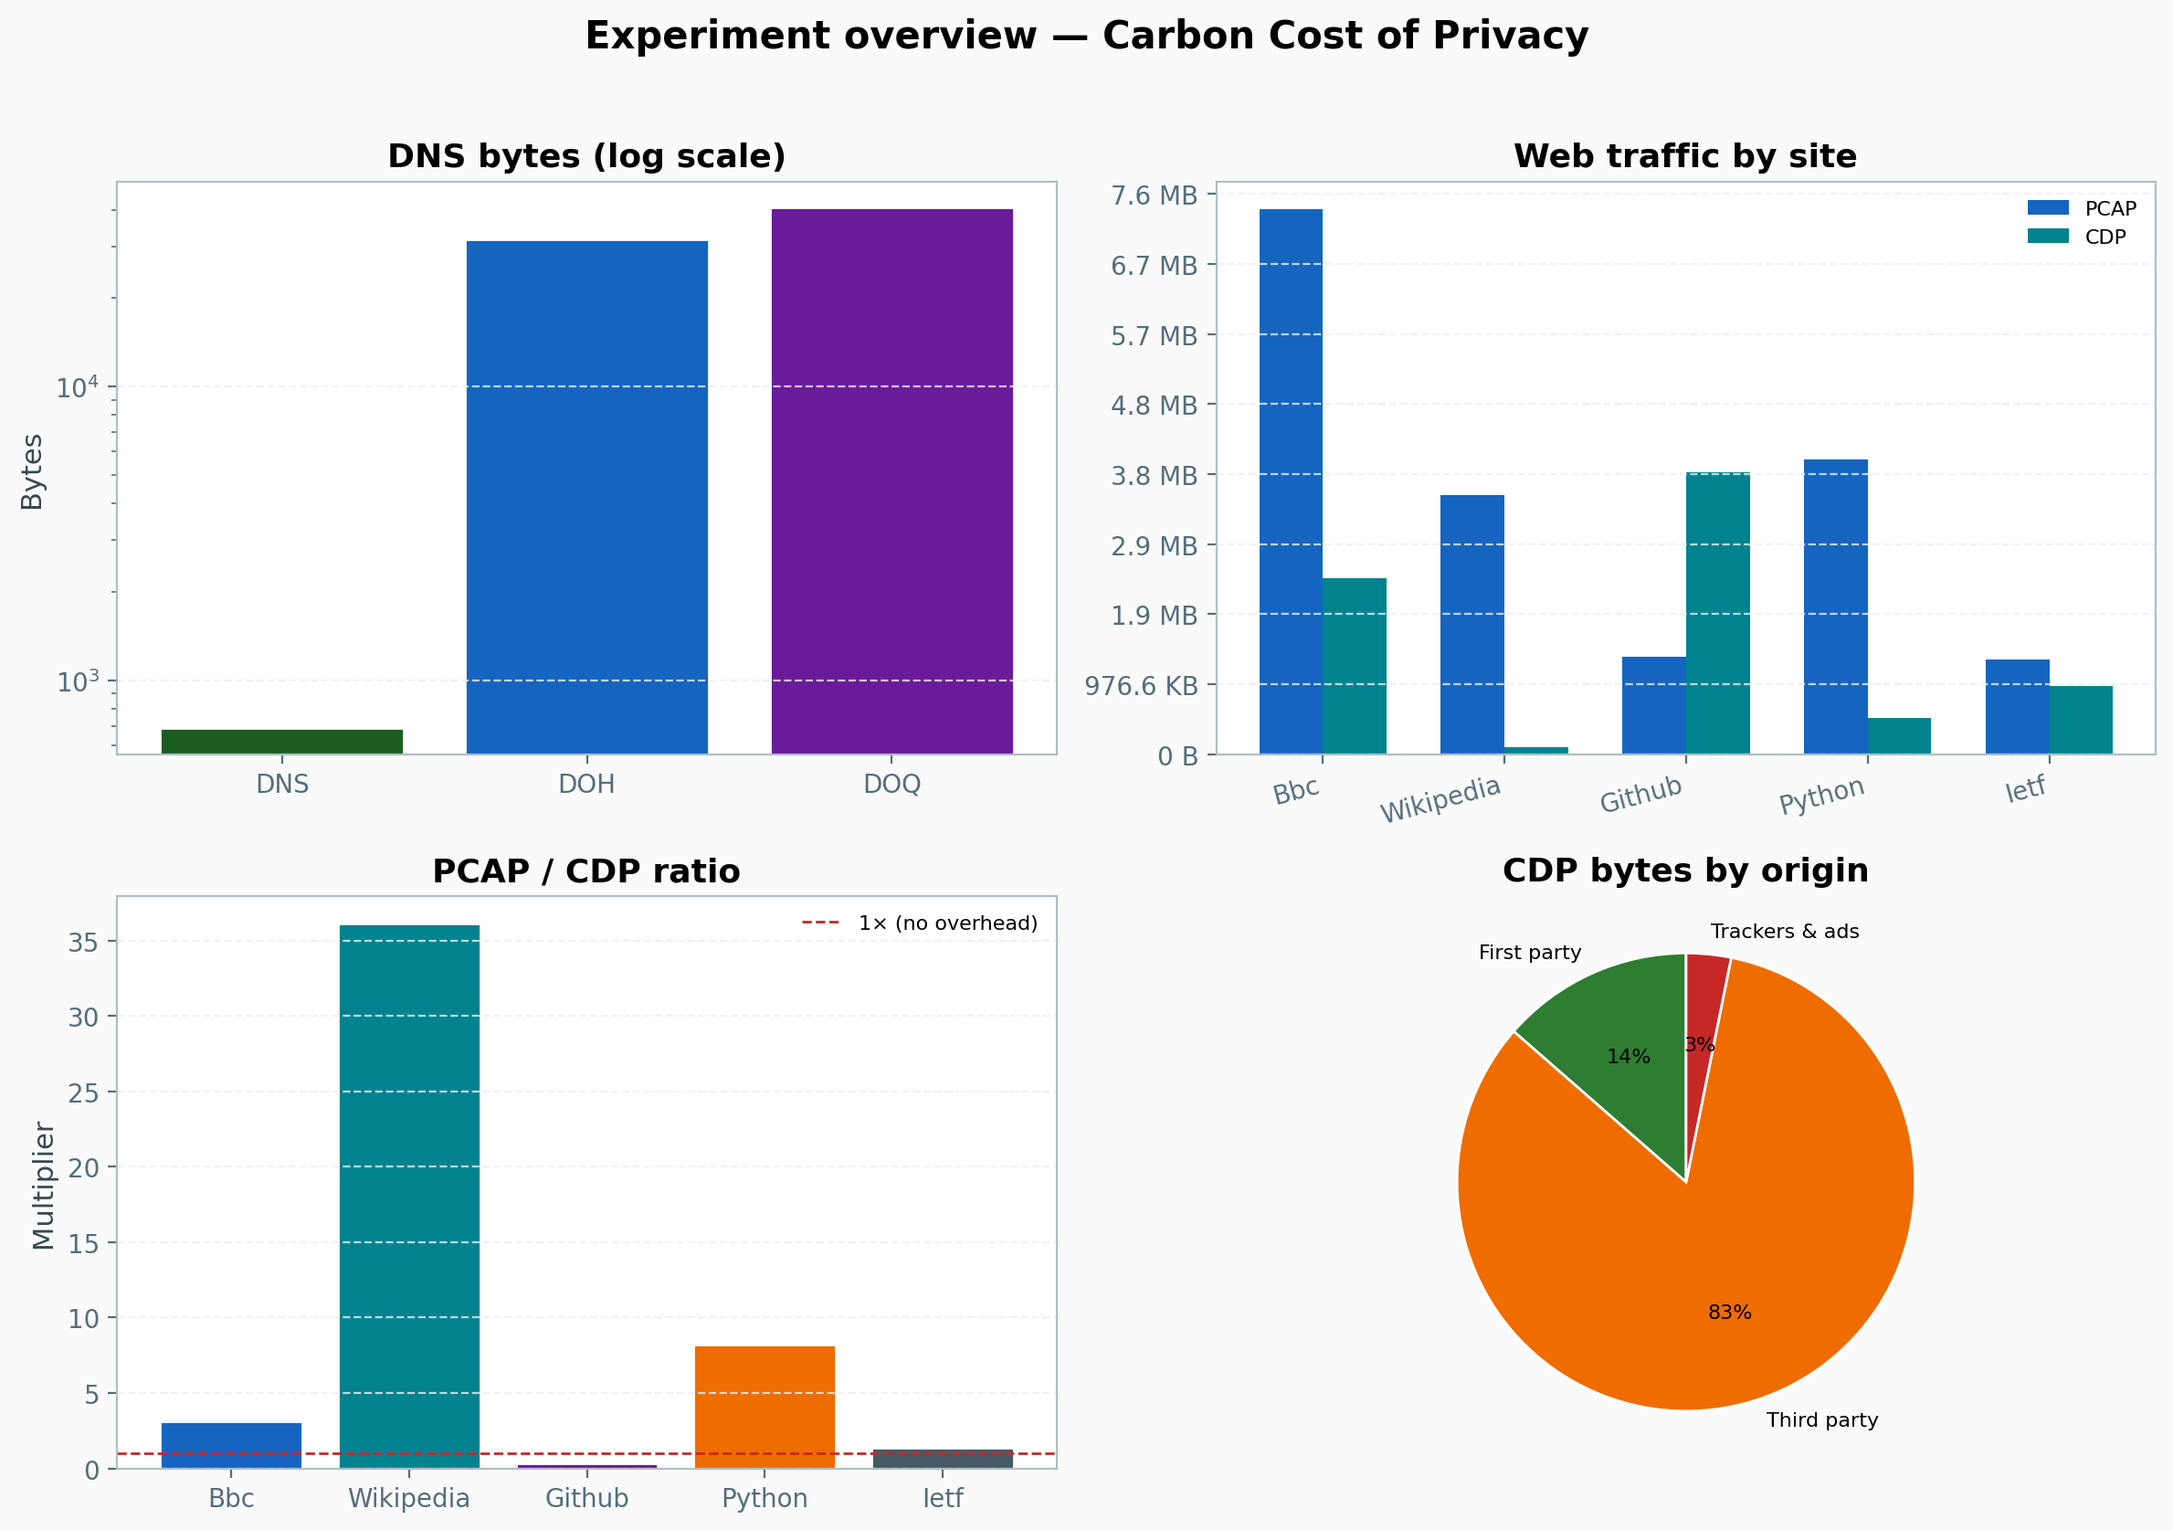
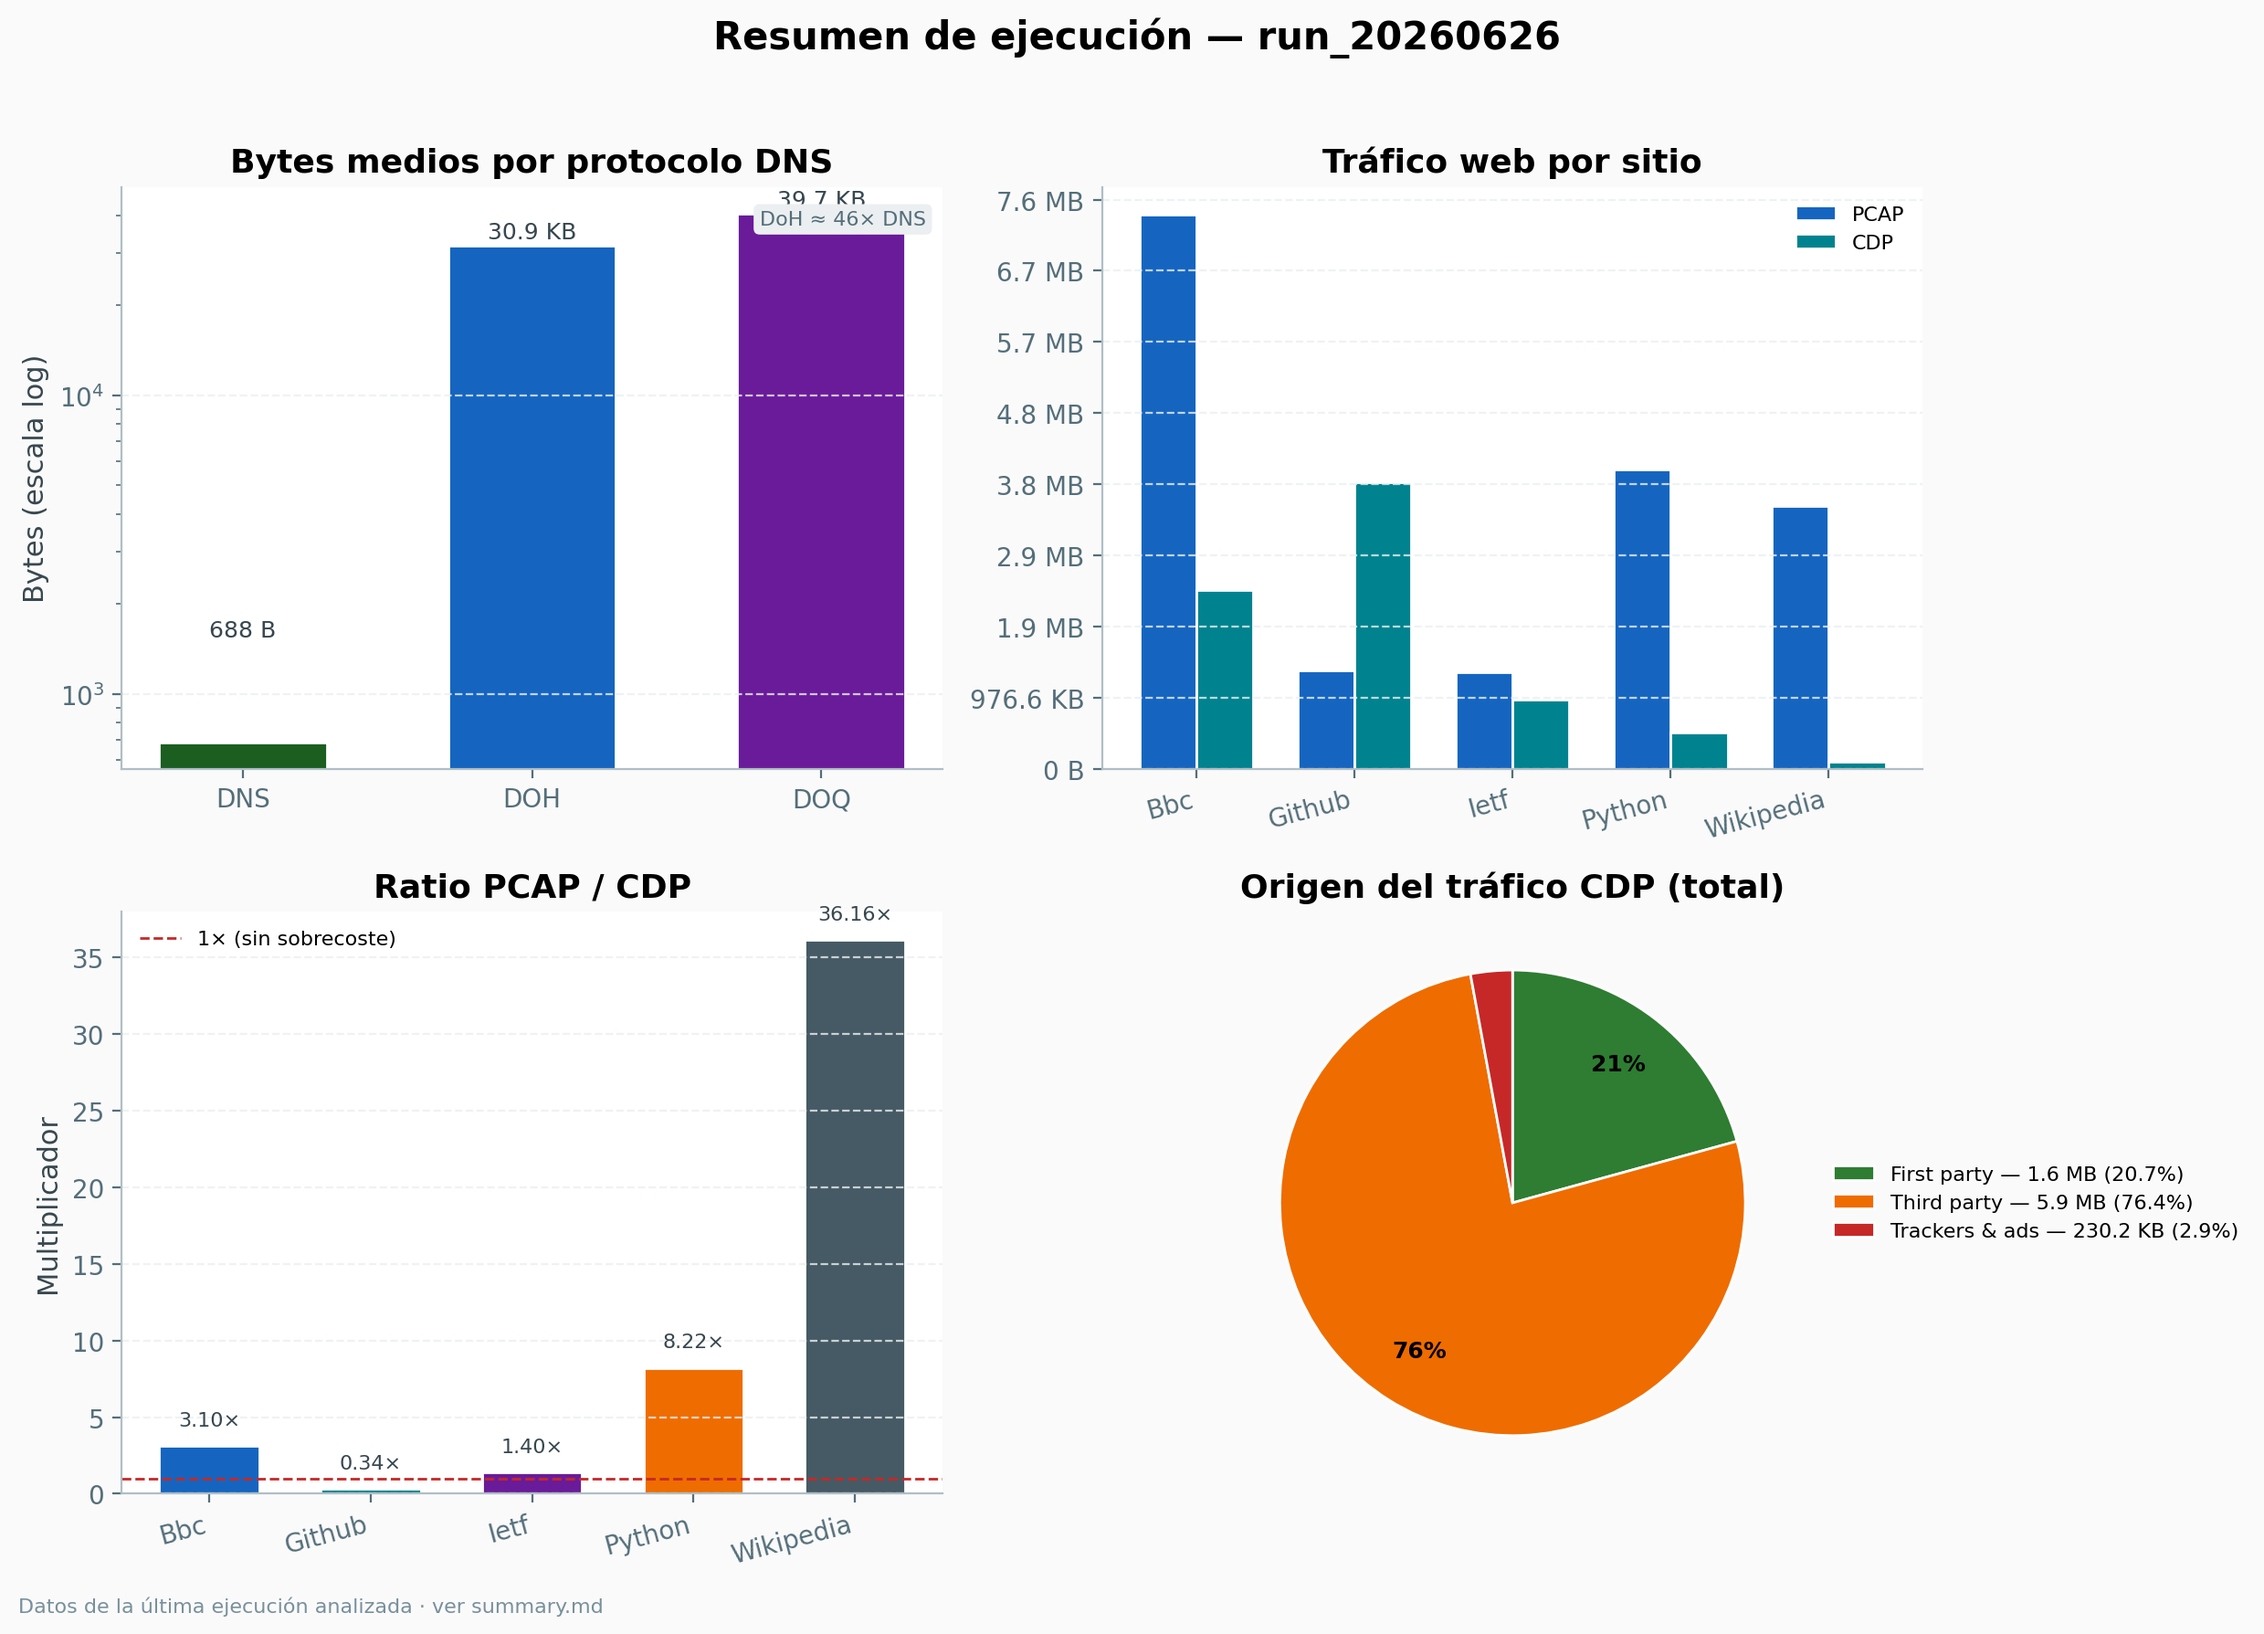
fixing results interpret.

diff --git a/src/run_analysis.py b/src/run_analysis.py
@@ -106,6 +106,41 @@ def _summarize(rows: list[dict[str, str]], group_key: str, metrics: list[str]):
     return summary
 
 
+def _sort_web_rows(web_rows: list[dict[str, str]]) -> list[dict[str, str]]:
+    return sorted(web_rows, key=lambda row: (row.get("site_label") or "").lower())
+
+
+def _pooled_origin_summary(origin_rows: list[dict[str, Any]]) -> list[dict[str, Any]]:
+    """Sum CDP bytes by origin across all sites (consistent pie chart + summary)."""
+    totals: dict[str, float] = defaultdict(float)
+    sites_by_origin: dict[str, set[str]] = defaultdict(set)
+
+    for row in origin_rows:
+        origin = row.get("origin_class") or "unknown_origin"
+        byte_count = float(row.get("bytes") or 0)
+        totals[origin] += byte_count
+        site = row.get("site_label") or ""
+        if site:
+            sites_by_origin[origin].add(site)
+
+    grand_total = sum(totals.values()) or 1.0
+    summary = []
+    for origin in sorted(totals.keys()):
+        byte_total = totals[origin]
+        pct = byte_total / grand_total * 100
+        summary.append(
+            {
+                "origin_class": origin,
+                "bytes": byte_total,
+                "avg_bytes": byte_total,
+                "pct_of_cdp_bytes": pct,
+                "avg_pct_of_cdp_bytes": pct,
+                "samples": len(sites_by_origin[origin]),
+            }
+        )
+    return summary
+
+
 def _format_bytes(value: float, precision: int = 1) -> str:
     units = ["B", "KB", "MB", "GB"]
     size = float(value)
@@ -206,6 +241,8 @@ def _plot_web_traffic_comparison(path: Path, web_rows: list[dict[str, str]]) -> 
     except ImportError:
         return False
 
+    web_rows = _sort_web_rows(web_rows)
+
     sites = [row.get("site_label") or row.get("category", "?") for row in web_rows]
     pcap_values = [_float(row, "pcap_bytes") for row in web_rows]
     cdp_values = [_float(row, "cdp_bytes") for row in web_rows]
@@ -287,7 +324,7 @@ def _plot_origin_distribution(path: Path, origin_summary: list[dict[str, Any]]) 
     for row in origin_summary:
         origin = row["origin_class"]
         labels.append(ORIGIN_LABELS.get(origin, origin.replace("_", " ")))
-        values.append(row["avg_bytes"])
+        values.append(row["bytes"])
         colors.append(ORIGIN_COLORS.get(origin, "#78909C"))
 
     total = sum(values) or 1
@@ -346,7 +383,7 @@ def _plot_origin_distribution(path: Path, origin_summary: list[dict[str, Any]]) 
     )
     ax_pie.legend(
         _wedges,
-        [f"{label} ({value / total * 100:.0f}%)" for label, value in zip(labels, values)],
+        [f"{label} ({row['pct_of_cdp_bytes']:.0f}%)" for label, row in zip(labels, origin_summary)],
         loc="center left",
         bbox_to_anchor=(1.02, 0.5),
         frameon=False,
@@ -362,6 +399,7 @@ def _plot_origin_distribution(path: Path, origin_summary: list[dict[str, Any]]) 
 
 def _plot_run_dashboard(
     path: Path,
+    run_id: str,
     dns_summary: list[dict[str, Any]],
     web_rows: list[dict[str, str]],
     origin_summary: list[dict[str, Any]],
@@ -374,74 +412,133 @@ def _plot_run_dashboard(
     except ImportError:
         return False
 
-    fig, axes = plt.subplots(2, 2, figsize=(12, 8.5))
+    web_rows = _sort_web_rows(web_rows)
+    dns_base = next((row["avg_bytes"] for row in dns_summary if row["protocol"] == "dns"), None)
+
+    fig, axes = plt.subplots(2, 2, figsize=(12.5, 9))
     fig.suptitle(
-        "Experiment overview — Carbon Cost of Privacy",
+        f"Resumen de ejecución — {run_id}",
         fontsize=15,
         fontweight="600",
         y=0.98,
     )
 
-    # DNS mini chart
+    # DNS — matches summary table (avg bytes + overhead vs DNS)
     ax = axes[0, 0]
     dns_labels = [row["protocol"].upper() for row in dns_summary]
     dns_values = [row["avg_bytes"] for row in dns_summary]
     dns_colors = [PROTOCOL_COLORS.get(row["protocol"], "#455A64") for row in dns_summary]
-    ax.bar(dns_labels, dns_values, color=dns_colors, edgecolor="white")
+    bars = ax.bar(dns_labels, dns_values, color=dns_colors, edgecolor="white", width=0.58)
     ax.set_yscale("log")
-    ax.set_title("DNS bytes (log scale)")
-    ax.set_ylabel("Bytes")
+    ax.set_title("Bytes medios por protocolo DNS")
+    ax.set_ylabel("Bytes (escala log)")
     ax.grid(axis="y", linestyle="--", alpha=0.8)
+    ax.spines["top"].set_visible(False)
+    ax.spines["right"].set_visible(False)
+    _annotate_bars(ax, bars, dns_values)
+    if dns_base and len(dns_values) >= 2:
+        ax.text(
+            0.98,
+            0.96,
+            f"DoH ≈ {dns_values[1] / dns_base:.0f}× DNS",
+            transform=ax.transAxes,
+            ha="right",
+            va="top",
+            fontsize=8,
+            color="#546E7A",
+            bbox={"boxstyle": "round,pad=0.3", "facecolor": "#ECEFF1", "edgecolor": "none"},
+        )
 
-    # Web per site
+    # Web PCAP vs CDP — same site order as summary.md
     ax = axes[0, 1]
     sites = [row.get("site_label", "?").capitalize() for row in web_rows]
     pcap_values = [_float(row, "pcap_bytes") for row in web_rows]
     cdp_values = [_float(row, "cdp_bytes") for row in web_rows]
     x = range(len(sites))
-    width = 0.35
-    ax.bar([i - width / 2 for i in x], pcap_values, width, label="PCAP", color="#1565C0")
-    ax.bar([i + width / 2 for i in x], cdp_values, width, label="CDP", color="#00838F")
+    width = 0.36
+    ax.bar([i - width / 2 for i in x], pcap_values, width, label="PCAP", color="#1565C0", edgecolor="white")
+    ax.bar([i + width / 2 for i in x], cdp_values, width, label="CDP", color="#00838F", edgecolor="white")
     ax.set_xticks(list(x))
     ax.set_xticklabels(sites, rotation=15, ha="right")
-    ax.set_title("Web traffic by site")
-    ax.legend(frameon=False, fontsize=8)
-    ax.yaxis.set_major_formatter(
-        plt.FuncFormatter(lambda value, _pos: _format_bytes(value))
-    )
+    ax.set_title("Tráfico web por sitio")
+    ax.legend(frameon=False, fontsize=8, loc="upper right")
+    ax.yaxis.set_major_formatter(plt.FuncFormatter(lambda value, _pos: _format_bytes(value)))
     ax.grid(axis="y", linestyle="--", alpha=0.8)
+    ax.spines["top"].set_visible(False)
+    ax.spines["right"].set_visible(False)
 
-    # Overhead ratio (clipped for readability)
+    # PCAP/CDP ratio — exact values from summary.md
     ax = axes[1, 0]
-    overhead = []
+    ratios = []
+    ratio_labels = []
     for row in web_rows:
         cdp = _float(row, "cdp_bytes")
         pcap = _float(row, "pcap_bytes")
-        overhead.append((pcap / cdp) if cdp > 0 else 0)
-    ax.bar(sites, overhead, color=CATEGORY_PALETTE[: len(sites)], edgecolor="white")
-    ax.axhline(1.0, color="#C62828", linestyle="--", linewidth=1, label="1× (no overhead)")
-    ax.set_title("PCAP / CDP ratio")
-    ax.set_ylabel("Multiplier")
+        ratio = (pcap / cdp) if cdp > 0 else 0
+        ratios.append(ratio)
+        ratio_labels.append(f"{ratio:.2f}×")
+
+    bars = ax.bar(range(len(sites)), ratios, color=CATEGORY_PALETTE[: len(sites)], edgecolor="white", width=0.62)
+    ax.axhline(1.0, color="#C62828", linestyle="--", linewidth=1, label="1× (sin sobrecoste)")
+    ax.set_title("Ratio PCAP / CDP")
+    ax.set_ylabel("Multiplicador")
+    ax.set_xticks(range(len(sites)))
+    ax.set_xticklabels(sites, rotation=15, ha="right")
     ax.legend(frameon=False, fontsize=8)
     ax.grid(axis="y", linestyle="--", alpha=0.8)
+    ax.spines["top"].set_visible(False)
+    ax.spines["right"].set_visible(False)
+    ymax = max(ratios + [1.0])
+    for bar, label in zip(bars, ratio_labels):
+        height = bar.get_height()
+        ax.text(
+            bar.get_x() + bar.get_width() / 2,
+            height + ymax * 0.03,
+            label,
+            ha="center",
+            va="bottom",
+            fontsize=8,
+            color="#37474F",
+            fontweight="500",
+        )
 
-    # Origin pie
+    # Origin — pooled CDP bytes (same totals as summary.md)
     ax = axes[1, 1]
     origin_labels = [ORIGIN_LABELS.get(row["origin_class"], row["origin_class"]) for row in origin_summary]
-    origin_values = [row["avg_bytes"] for row in origin_summary]
+    origin_values = [row["bytes"] for row in origin_summary]
     origin_colors = [ORIGIN_COLORS.get(row["origin_class"], "#78909C") for row in origin_summary]
-    ax.pie(
+    legend_labels = [
+        f"{label} — {_format_bytes(row['bytes'])} ({row['pct_of_cdp_bytes']:.1f}%)"
+        for label, row in zip(origin_labels, origin_summary)
+    ]
+    wedges, _texts, autotexts = ax.pie(
         origin_values,
-        labels=origin_labels,
         colors=origin_colors,
-        autopct="%1.0f%%",
+        autopct=lambda pct: f"{pct:.0f}%" if pct >= 3 else "",
         startangle=90,
-        textprops={"fontsize": 8},
+        counterclock=False,
+        pctdistance=0.75,
         wedgeprops={"linewidth": 1, "edgecolor": "white"},
+        textprops={"fontsize": 9, "fontweight": "600"},
     )
-    ax.set_title("CDP bytes by origin")
+    ax.legend(
+        wedges,
+        legend_labels,
+        loc="center left",
+        bbox_to_anchor=(1.02, 0.5),
+        frameon=False,
+        fontsize=8,
+    )
+    ax.set_title("Origen del tráfico CDP (total)")
 
-    plt.tight_layout(rect=[0, 0, 1, 0.96])
+    fig.text(
+        0.01,
+        0.01,
+        "Datos de la última ejecución analizada · ver summary.md",
+        fontsize=8,
+        color="#78909C",
+    )
+    plt.tight_layout(rect=[0, 0.02, 1, 0.96])
     _save_figure(plt, path, dpi=200)
     return True
 
@@ -525,12 +622,12 @@ def _markdown_report(
 
     lines.extend(["", "## Perfil por origen de recursos", ""])
     if origin_summary:
-        lines.append("| Origen | Muestras | Bytes medios | Porcentaje sobre CDP |")
+        lines.append("| Origen | Sitios | Bytes CDP totales | % del CDP total |")
         lines.append("| --- | ---: | ---: | ---: |")
         for row in origin_summary:
             lines.append(
                 f"| {row['origin_class']} | {row['samples']} | "
-                f"{_format_bytes(row['avg_bytes'])} | {row['avg_pct_of_cdp_bytes']:.1f}% |"
+                f"{_format_bytes(row['bytes'])} | {row['pct_of_cdp_bytes']:.1f}% |"
             )
     else:
         lines.append("No hay perfiles CDP de recursos en esta ejecución.")
@@ -562,7 +659,12 @@ def analyze_run(run_dir: str | Path):
         row["category"] = matching.get("category", "")
 
     origin_rows = _profile_resource_summary(profiles)
-    origin_summary = _summarize(origin_rows, "origin_class", ["bytes", "pct_of_cdp_bytes"])
+    origin_summary = _pooled_origin_summary(origin_rows)
+
+    web_summary = sorted(
+        web_summary,
+        key=lambda row: (row.get("site_label") or "").lower(),
+    )
 
     _write_csv(analysis_dir / "dns_protocol_summary.csv", dns_summary)
     _write_csv(analysis_dir / "web_category_summary.csv", web_summary)
@@ -594,6 +696,7 @@ def analyze_run(run_dir: str | Path):
             "fig_dashboard.png",
             lambda: _plot_run_dashboard(
                 analysis_dir / "fig_dashboard.png",
+                run_dir.name,
                 dns_summary,
                 web_rows,
                 origin_summary,

diff --git a/results/run_20260626/analysis/summary.md b/results/run_20260626/analysis/summary.md
@@ -24,11 +24,11 @@ Resumen rápido de la ejecución: comparación de protocolos DNS, tráfico web c
 
 ## Perfil por origen de recursos
 
-| Origen | Muestras | Bytes medios | Porcentaje sobre CDP |
+| Origen | Sitios | Bytes CDP totales | % del CDP total |
 | --- | ---: | ---: | ---: |
-| first_party | 5 | 329.2 KB | 55.9% |
-| third_party | 3 | 2.0 MB | 68.7% |
-| tracker_or_ads | 3 | 76.7 KB | 4.9% |
+| first_party | 5 | 1.6 MB | 20.7% |
+| third_party | 3 | 5.9 MB | 76.4% |
+| tracker_or_ads | 3 | 230.2 KB | 2.9% |
 
 ## Figuras generadas
 
